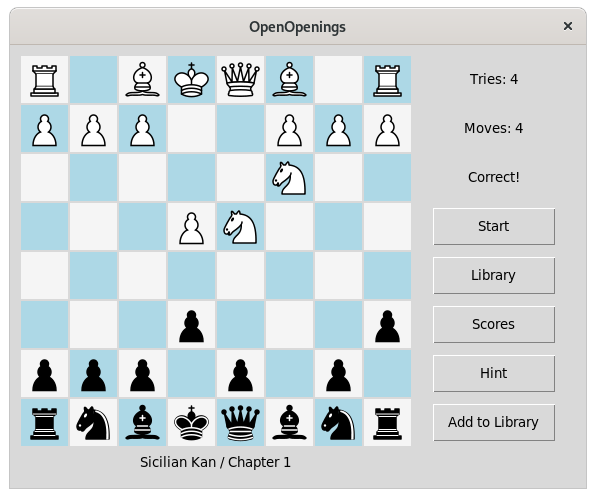
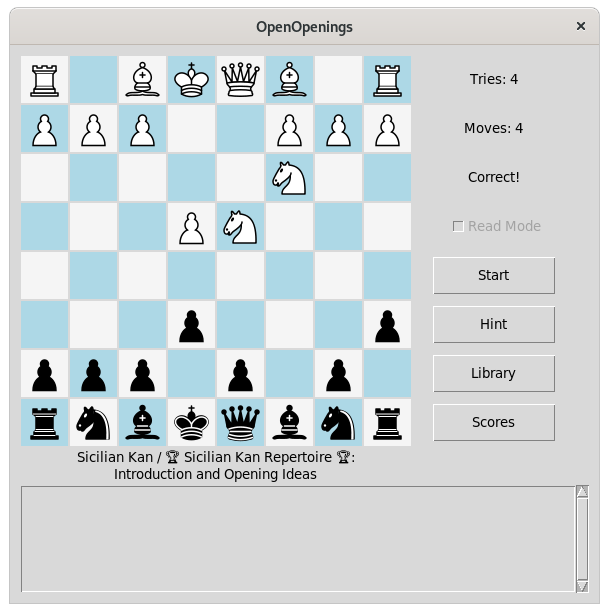
Read Mode and gui niceties

diff --git a/library_window.py b/library_window.py
@@ -19,6 +19,7 @@
 import tkinter as tk, time, threading, random, queue
 import json
 from tkinter import ttk
+from tkinter.messagebox import askyesno
 
 class LibraryWindow(object):
     def __init__(self, library_file, queue, add_func):
@@ -99,7 +100,8 @@ class LibraryWindow(object):
 
             self.select_window({
                 "Select" : self.make_select_final(),
-                "Rename" : self.make_rename()
+                "Rename" : self.make_rename(),
+                "Delete" : self.make_delete_chapter()
             }, self.library[self.book_select])
             
 
@@ -120,7 +122,8 @@ class LibraryWindow(object):
         self.select_window({
             "Select" : self.make_select_book(),
             "Add to Library" : self.add_func,
-            "Rename" : self.make_rename_book()
+            "Rename" : self.make_rename_book(),
+            "Delete" : self.make_delete_book()
         }, self.library)
         
 
@@ -132,7 +135,7 @@ class LibraryWindow(object):
                 newname = tk.simpledialog.askstring("New name", "Rename " + chapter + " to what?")
             
             self.library[self.current_book][newname] = self.library[self.current_book].pop(chapter)
-            self.write(self, self.lib_file)
+            self.write(self.lib_file)
             self.select_window({
                 "Select" : self.make_select_final(),
                 "Rename" : self.make_rename()
@@ -154,6 +157,29 @@ class LibraryWindow(object):
         return com
     
 
+    def make_delete_chapter(self):
+        def com():
+            chapter = self.listbox.get(self.listbox.curselection())
+            answer = askyesno("Confirm Delete", "Do you want to delete " + chapter + " in book " + self.current_book + "?")
+            if answer:
+                self.library[self.current_book].pop(chapter)
+                self.write(self.lib_file)
+                self.select_window({
+                    "Select" : self.make_select_final(),
+                    "Rename" : self.make_rename(),
+                    "Delete" : self.make_delete_chapter()
+                }, self.library[self.book_select])
+        return com
+
+    def make_delete_book(self):
+        def com():
+            book = self.listbox.get(self.listbox.curselection())
+            answer = askyesno("Confirm Delete", "Do you want to delete book " +  book + "?")
+            if answer:
+                self.library.pop(book)
+                self.write(self.lib_file)
+                self.open_window()
+        return com
 
     def rename(self, book0, chapter0, book1, chapter1):
         if (book1 not in self.library):

diff --git a/openopenings.py b/openopenings.py
@@ -327,8 +327,8 @@ class OpenOpenings(object):
             msg = self.internal_queue.get()
             if (msg=="Library"):
                 self.queue.put(["ChangeChapter",
-                                self.format_title(self.library.current_book +
-                                                  " / " + self.library.current_chapter)])
+                                self.library.current_book +
+                                " / " + self.library.current_chapter])
             if (not self.done):
 
                 if (self.board.turn != self.player):
@@ -336,7 +336,7 @@ class OpenOpenings(object):
                         self.send_make_move(self.node.move)
                         self.board.push(self.node.move)
                         self.awaiting_move = True
-                        comment = "Press Space to see comment on next ply...\n" + self.node.comment
+                        comment = "Press Space to see comment on next ply...\n\n" + self.node.comment
                         self.queue.put(["SetReadText", comment])
                         self.awaiting_continue = True
                         self.node = self.node.next()

diff --git a/gui.py b/gui.py
@@ -91,14 +91,14 @@ class UserInterface(object):
         self.draw_board(chess.Board())
 
 
-        self.title_label = tk.Label(self.frm, text="No File Loaded.", width=45, padx=0)
-        self.title_label.grid(row=8, columnspan=8, rowspan=2, sticky='nsew')
+        self.title_label = tk.Label(self.frm, text="No File Loaded.", width=45, padx=0, wraplength=350)
+        self.title_label.grid(row=8, columnspan=8)
 
         self.read_label = tk.Text(self.frm, width=45, height=6, relief='ridge', font=font.nametofont("TkDefaultFont"), background=master.cget('bg'), wrap=tk.WORD,bd=1, state=tk.DISABLED)
-        self.read_label.grid(row=10, column=0, columnspan=9, sticky='nsew')
+        self.read_label.grid(row=9, column=0, columnspan=9, sticky='nsew')
 
         self.read_scroll = tk.Scrollbar(self.frm)
-        self.read_scroll.grid(row=10, column=9, sticky='ns')
+        self.read_scroll.grid(row=9, column=9, sticky='ns')
 
         self.read_scroll.config(command=self.read_label.yview)
         self.read_label.config(yscrollcommand=self.read_scroll.set)

diff --git a/README.md b/README.md
@@ -1,6 +1,13 @@
 # OpenOpenings
 
+## Screenshots
+
 ![Screenshot](screenshot1.png?raw=true)
+
+
+In Read Mode:
+
+![Screenshot](screenshot2.png?raw=true)
 
 ## What it does?
 
